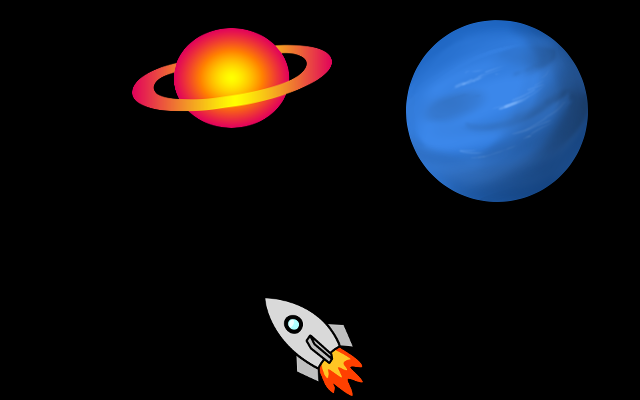
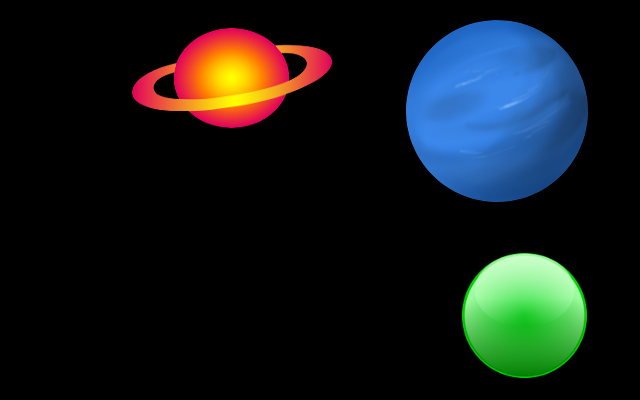
Updated System
All Changes from the Demo

Changed region(s): [[0.7188, 0.63, 0.9375, 0.96], [0.4062, 0.75, 0.5625, 0.99]]

diff --git a/SpaceVoyager/src/Map.java b/SpaceVoyager/src/Map.java
@@ -2,7 +2,6 @@ import org.lwjgl.input.Mouse;
 import org.newdawn.slick.*;
 import org.newdawn.slick.state.*;
 
-//I MADE A CHANGE YAY
 public class Map extends BasicGameState{
 	
 	Image background;
@@ -14,6 +13,18 @@ public class Map extends BasicGameState{
 	Controller c;
 	int s;
 	public String mouse = "";
+	Image natune;
+	Image duruta;
+	Image zutania;
+	Image space;
+	String pCoords;
+	String currentWorld;
+	Image unseenShip;
+	String fight;
+	Image spirit;
+	Image tempSpirit;
+	String questIntro;
+	
 	
 	
 	public Map(int s){
@@ -24,25 +35,25 @@ public class Map extends BasicGameState{
 	public void init(GameContainer window, StateBasedGame state)
 			throws SlickException {
 		// TODO Auto-generated method stub
-		
-		if(s == 1){
-			background = new Image("resources/Gameplay-Space.png");
-		}
-		else if(s == 2){
-			background = new Image("resources/natune.png");
-		}else if(s == 3){
-			background = new Image("resources/duruta.png");
-		}else if(s == 4){
-			background = new Image("resources/zutania.png");
-		}
+		unseenShip = new Image("resources/nothing.png");
 		spaceship = new Image("resources/spaceshipFinal.png");
 		spaceship = spaceship.getScaledCopy((float).10);
 		eShip = new Image("resources/spaceship.png");
 		eShip = eShip.getScaledCopy((float).25);
-//		background = new Image("resources/Gameplay-Space.png");
-		p = new Player("Hero", spaceship, 100, 100, 100, 10, 10, 1, 0);
-		e = new Enemy("Starship", eShip, 100, 100, 100, 1, 1, true, 10);
+		space = new Image("resources/Gameplay-Space.png");
+		p = new Player("Hero", spaceship, 60, 350, 100, 10, 10, 1, 0);
+		e = new Enemy("Starship", unseenShip, 120, 175, 100, 1, 1, true, 10);
 		c = new Controller(window, p);
+		natune = new Image("resources/natune.png");
+		duruta = new Image("resources/duruta.png");
+		zutania = new Image("resources/zutania.png");
+		background = space;
+		currentWorld = "space";
+		fight = "";
+		spirit = new Image("resources/spirit.png");
+		questIntro = "";
+		tempSpirit = spirit;
+		
 	}
 
 	@Override
@@ -54,8 +65,10 @@ public class Map extends BasicGameState{
 		g.drawImage(p.sprite, p.xCoord, p.yCoord);
 		g.drawImage(e.sprite, e.xCoord, e.yCoord);
 		g.drawString(mouse, 300, 300);
-		g.drawRect(405, 20, 185, 185);
-		
+		g.drawString(pCoords, 50, 50);
+		g.drawString(fight, 150, 175);
+		g.drawImage(spirit, 300, 400);
+		g.drawString(questIntro, 250, 350);
 	}
 
 	@Override
@@ -70,13 +83,57 @@ public class Map extends BasicGameState{
 		
 		if((mouseX > 0 && mouseX < 40) && (mouseY < 40  && mouseY > 0)){
 			if(input.isMouseButtonDown(0)){
+				background = space;
+				currentWorld = "space";
+				p.xCoord = 60;
+				p.yCoord = 350;
+				e.sprite = unseenShip;
+				fight = "";
+				questIntro = "";
+				spirit = tempSpirit;
 				state.enterState(0);
 			}
 		}
-		if((p.xCoord > 405 && p.xCoord < 590) && (p.yCoord < 660 && p.yCoord > 485)){
-			state.enterState(2);
+		if((p.xCoord > 330 && p.xCoord < 510) && (p.yCoord < 100 && p.yCoord > 5) && currentWorld.equalsIgnoreCase("space")){
+			background = natune;
+			e.sprite = unseenShip;
+			currentWorld = "natune";
+			fight = "";
+			questIntro = "";
+			spirit = unseenShip;
+		}
+		if((p.xCoord > 100 && p.xCoord < 210) && (p.yCoord < 100 && p.yCoord > 15) && currentWorld.equalsIgnoreCase("space")){
+			background = duruta;
+			e.sprite = unseenShip;
+			currentWorld = "duruta";
+			fight = "";
+			questIntro = "";
+			spirit = unseenShip;
+		}
+		if((p.xCoord > 385 && p.xCoord < 505) && (p.yCoord < 330 && p.yCoord > 225) && currentWorld.equalsIgnoreCase("space")){
+			background = zutania;
+			e.sprite = unseenShip;
+			currentWorld = "zutania";
+			fight = "";
+			questIntro = "";
+			spirit = unseenShip;
+		}
+		if((p.xCoord > 60 && p.xCoord < 145) && (p.yCoord < 200 && p.yCoord > 150) && currentWorld.equalsIgnoreCase("space")){
+			e.sprite = eShip;
+			fight = "Fights to be implemented in Phase 2";
+		}
+		if((p.xCoord > 230 && p.xCoord < 325) && (p.yCoord < 415 && p.yCoord > 360) && currentWorld.equalsIgnoreCase("space")){
+			questIntro = "Quests to be implemented in Phase 2";
+		}
+		if((p.xCoord == 0) && (p.yCoord == 395) && !currentWorld.equalsIgnoreCase("space")){
+			background = space;
+			currentWorld = "space";
+			spirit = tempSpirit;
+			p.xCoord = 60;
+			p.yCoord = 350;
 		}
 		c.move();
+		pCoords = "x: " + p.xCoord + "\ny: " + p.yCoord;
 	}
 
 	@Override

diff --git a/SpaceVoyager/src/Menu.java b/SpaceVoyager/src/Menu.java
@@ -29,9 +29,9 @@ public class Menu extends BasicGameState{
 		spaceship = spaceship.getScaledCopy((float).10);
 		eShip = new Image("resources/spaceship.png");
 		eShip = eShip.getScaledCopy((float).25);
-		p = new Player("Hero", spaceship, shipX, shipY, 100, 10, 10, 1, 0);
-		e = new Enemy("Starship", eShip, 100, 100, 100, 1, 1, true, 10);
-		c = new Controller(window, p);
+		//p = new Player("Hero", spaceship, shipX, shipY, 100, 10, 10, 1, 0);
+		//e = new Enemy("Starship", eShip, 100, 100, 100, 1, 1, true, 10);
+		//c = new Controller(window, p);
 	}
 
 	@Override
@@ -41,8 +41,9 @@ public class Menu extends BasicGameState{
 		g.drawImage(menuBackground, 0, 0);
 		g.drawString(mouse, 100, 100);
 		g.drawRect(230, 65, 150, 40);
-		g.drawImage(p.sprite, p.xCoord, p.yCoord);
-		g.drawImage(e.sprite, 100, 100);
+		g.drawRect(235, 145, 150, 35);
+		//g.drawImage(p.sprite, p.xCoord, p.yCoord);
+		//g.drawImage(e.sprite, 100, 100);
 	}
 
 	@Override
@@ -63,7 +64,7 @@ public class Menu extends BasicGameState{
 //			shipX += 5;
 //		}
 		
-		c.move();
+		//c.move();
 		//select new game
 		if((mouseX > 230 && mouseX < 380) && (mouseY < 410  && mouseY > 370)){
 			if(input.isMouseButtonDown(0)){

diff --git a/SpaceVoyager/src/SpaceVoyager.java b/SpaceVoyager/src/SpaceVoyager.java
@@ -18,7 +18,7 @@ public class SpaceVoyager extends StateBasedGame{
 		super(name);
 		this.addState(new Menu(menu));
 		this.addState(new Map(worldMap));
-		this.addState(new Map(natune));
+//		this.addState(new Map(natune));
 //		this.addState(new Map(duruta));
 //		this.addState(new Map(zutania));
 	}
@@ -39,7 +39,7 @@ public class SpaceVoyager extends StateBasedGame{
 	public void initStatesList(GameContainer arg0) throws SlickException {
 		this.getState(menu).init(arg0, this);
 		this.getState(worldMap).init(arg0, this);
-		this.getState(natune).init(arg0, this);
+//		this.getState(natune).init(arg0, this);
 //		this.getState(duruta).init(arg0, this);
 //		this.getState(zutania).init(arg0, this);
 		this.enterState(menu);

diff --git a/SpaceVoyager/src/Controller.java b/SpaceVoyager/src/Controller.java
@@ -12,13 +12,13 @@ public class Controller {
 	}
 	
 	public void move(){
-		if(input.isKeyDown(Input.KEY_W)){
+		if(input.isKeyDown(Input.KEY_W) && player.yCoord > -10){
 			player.yCoord -= 5;
-		}if(input.isKeyDown(Input.KEY_A)){
+		}if(input.isKeyDown(Input.KEY_A) && player.xCoord > 0){
 			player.xCoord -= 5;
-		}if(input.isKeyDown(Input.KEY_S)){
+		}if(input.isKeyDown(Input.KEY_S) && player.yCoord < 395){
 			player.yCoord += 5;
-		}if(input.isKeyDown(Input.KEY_D)){
+		}if(input.isKeyDown(Input.KEY_D) && player.xCoord < 495){
 			player.xCoord += 5;
 		}
 	}
